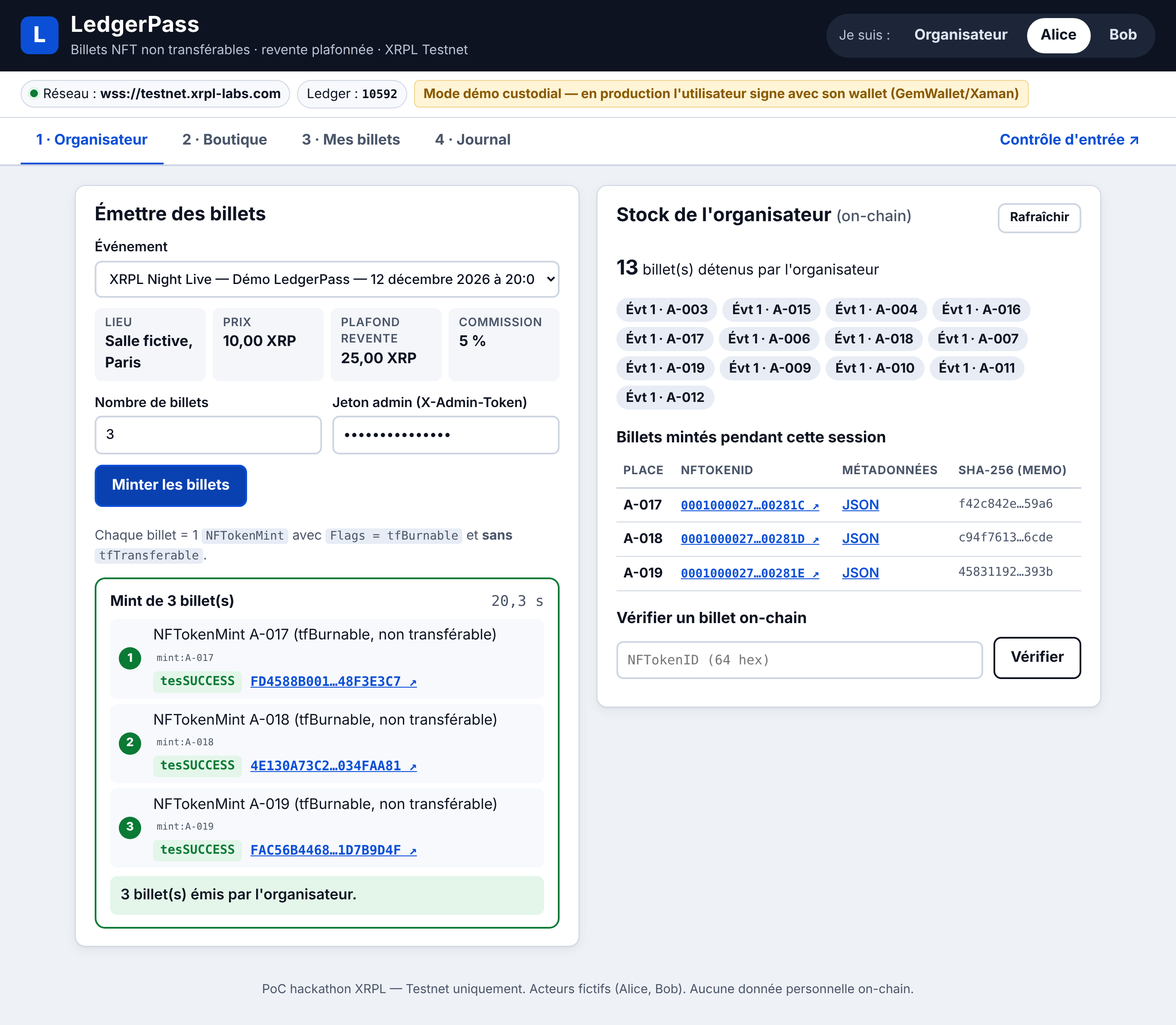
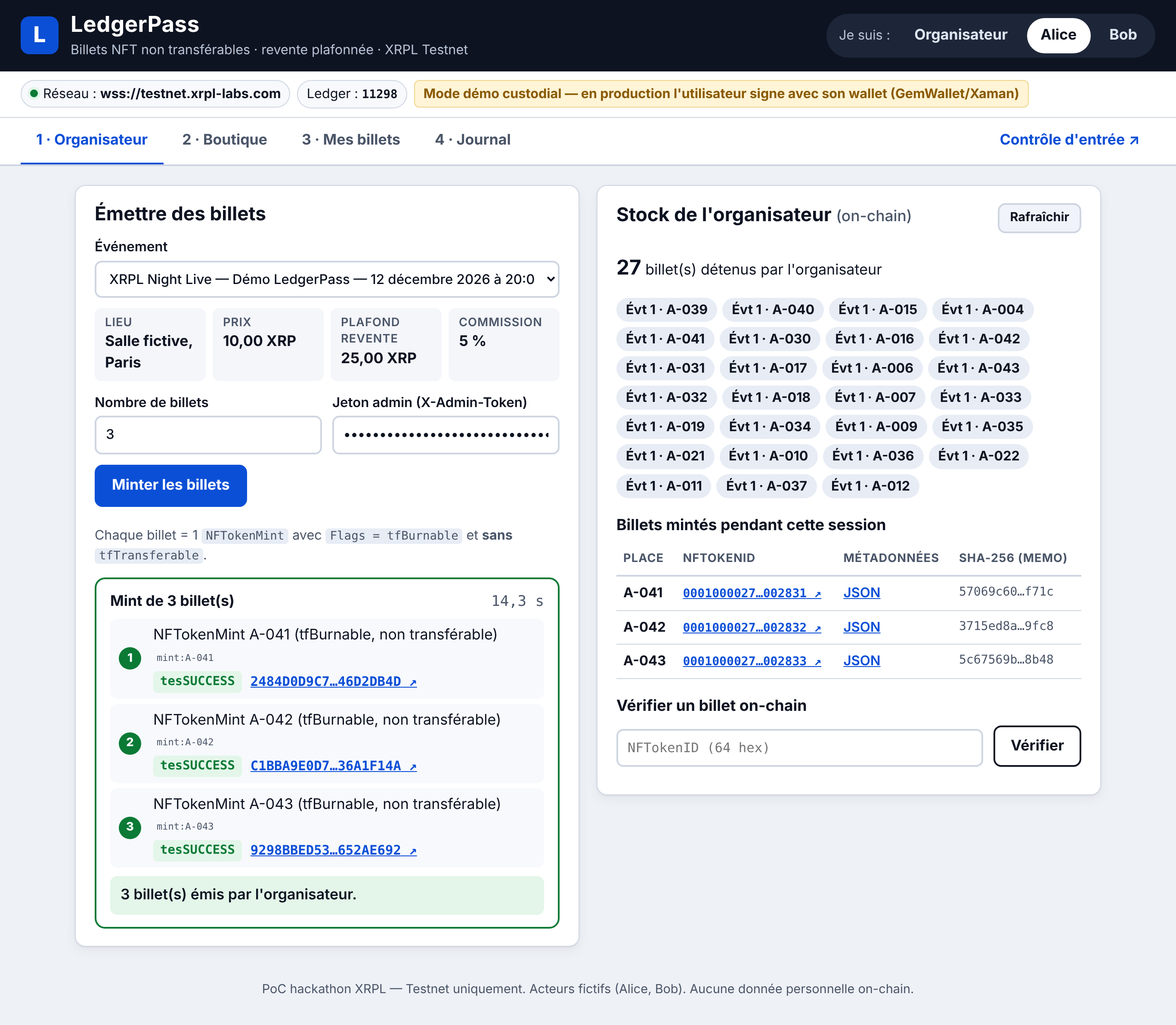
docs: README autonome, nouvelles captures et run e2e final
Claude-Session: https://claude.ai/code/session_01Mim6dzKs9tWbwbmNKG9b2e

diff --git a/README.md b/README.md
@@ -40,7 +40,7 @@ Hackathon XRPL — ING5 CReATE, novembre 2026. PoC **Testnet uniquement**.
 - **Finalité en 3 à 5 s** et frais de l'ordre de 0,00001 XRP : compatible avec une file d'entrée.
 - **Lecture publique** (`account_nfts`, [testnet.xrpl.org](https://testnet.xrpl.org)) : n'importe qui vérifie l'état d'un billet.
 
-Détail des briques retenues et des alternatives rejetées : [`docs/choix-xrpl.md`](docs/choix-xrpl.md).
+**Briques XRPL retenues** : NFT XLS-20 (`NFTokenMint` / `NFTokenCreateOffer` / `NFTokenAcceptOffer` / `NFTokenBurn`), offres avec `Destination`, Memos (preuve sha256 des métadonnées, trace du check-in), `account_nfts` pour relire l'état. **Écartées** : royalty native `TransferFee` (voir § 2), smart contracts / Hooks (inutiles : le protocole porte déjà la règle), `nft_info` (Clio uniquement, non garanti sur tous les nœuds).
 
 ## 2. Le modèle retenu : option B
 
@@ -53,7 +53,7 @@ Détail des briques retenues et des alternatives rejetées : [`docs/choix-xrpl.m
 | Prix > plafond | refusé par l'API (HTTP 400) avant toute transaction : comme l'org est le seul à pouvoir créer une offre, le plafond est applicable |
 | Contrôle d'entrée | `NFTokenBurn` signé par l'org avec `Owner = détenteur` + Memo `ledgerpass/checkin`. Accès accordé **uniquement** si le burn est `tesSUCCESS` ; un rescan est donc refusé |
 
-Pourquoi pas de royalty native (`TransferFee`) : elle exige `tfTransferable`, ce qui rouvrirait le marché noir, et elle se contourne par une vente à 0 XRP. Voir [`docs/choix-xrpl.md`](docs/choix-xrpl.md).
+Pourquoi pas de royalty native (`TransferFee`) : elle exige `tfTransferable`, ce qui rouvrirait le marché noir, et elle se contourne par une vente à 0 XRP. Le plafond, appliqué par le seul acteur capable de créer une offre (l'organisateur), est donc plus robuste qu'une royalty.
 
 ## 3. Architecture
 
@@ -64,7 +64,33 @@ Front web (Vite, aucune seed) ──HTTP /api──► API Node.js/Express (xrpl
                                          metadata/*.json, data/db.json (journal)             testnet.xrpl.org
 ```
 
-Le script e2e (`scripts/e2e-demo.js`) appelle **la même couche `server/src/services/`** que l'API. Détail complet (qui signe quoi, cycle de vie, robustesse) : [`docs/architecture.md`](docs/architecture.md). Contrat d'API figé : [`docs/api-contract.md`](docs/api-contract.md).
+Le script e2e (`scripts/e2e-demo.js`) appelle **la même couche `server/src/services/`** que l'API.
+
+**Qui signe quoi** (mode démo custodial : seul le backend signe, le front n'a aucune seed) :
+
+| Action | Transactions | Signataire |
+|---|---|---|
+| Mint | `NFTokenMint` (Flags 1, Taxon = événement, URI, Memo sha256) | org |
+| Vente primaire | `NFTokenCreateOffer` vente, `Destination` = acheteur → `NFTokenAcceptOffer` | org → acheteur |
+| Revente encadrée | offre d'achat org (`Owner` = vendeur) → accept vendeur → offre de vente org (`Destination` = acheteur) → accept acheteur | org, vendeur, org, acheteur |
+| Revente directe (preuve) | `NFTokenCreateOffer` par le détenteur → rejet `tefNFTOKEN_IS_NOT_TRANSFERABLE` | détenteur |
+| QR du billet | signature hors chaîne (`ledgerpass\|nftId\|holder\|ts`) avec la clé du détenteur, valable 60 s | détenteur |
+| Contrôle d'entrée | `NFTokenBurn` (`Owner` = détenteur) + Memo `ledgerpass/checkin` | org |
+
+**Routes de l'API** (`http://127.0.0.1:3000/api`, JSON ; erreur = `{ error, code, hash? }`) :
+
+| Route | Rôle |
+|---|---|
+| `GET /health` | nœud XRPL, ledger, adresses publiques ; répond immédiatement (`network: null`, `status: "connecting"` pendant une reconnexion) |
+| `GET /events`, `GET /balances`, `GET /tx` | catalogue, soldes, journal des transactions de la session |
+| `POST /admin/mint` (`X-Admin-Token`) | `{ eventId, count ≤ 10 }` → billets mintés + tx |
+| `POST /primary/buy` | `{ nftId, buyer }` → vente primaire (2 tx) |
+| `GET /wallets/:who/tickets` | billets détenus (relus via `account_nfts` ; la Boutique exclut ceux en cours d'opération et ceux « en suspens » après une revente interrompue) |
+| `GET /wallets/:who/tickets/:nftId/qr` | QR signé `{ nftId, holder, ts, pubKey, sig }` (404 si `who` ne détient pas le billet, 400 si `who = org`) |
+| `GET /tickets/:nftId` | statut relu on-chain (`owner`, `burned`, historique, `pendingResale` éventuel) ; 404 si inconnu |
+| `POST /resale` | `{ nftId, seller, buyer, priceXrp }` (1 ≤ prix ≤ plafond) → 4 tx ; en cas d'échec partiel : `stage`, `txs`, `currentOwner` relu on-chain |
+| `POST /resale/direct` | tentative de revente directe : sur un billet détenu, 409 `tefNFTOKEN_IS_NOT_TRANSFERABLE` (400 si la requête est invalide : `nftId`, acteurs, prix) |
+| `POST /gate/checkin` (`X-Gate-Token`) | contenu du QR signé + `eventId` (défaut 1) → `{ granted: true, tx }` ou 409 `{ granted: false, reason }` ; 504 `TX_UNKNOWN` + `hash` si la validation du burn n'a pas pu être constatée (réseau) |
 
 | On-chain (XRPL) | Off-chain (serveur) |
 |---|---|
@@ -82,7 +108,7 @@ Le statut d'un billet (propriétaire, brûlé ou non) n'est **jamais stocké** c
 - **Node.js ≥ 20** (testé avec Node 22) et npm
 - **Git**
 - Un accès réseau à au moins un nœud WebSocket du Testnet (voir [§ 6](#6-réseau-utilisé)) et au faucet `faucet.altnet.rippletest.net` (création des comptes uniquement)
-- Optionnel : un smartphone ou une webcam pour scanner les QR (sinon, saisie manuelle)
+- Optionnel : une webcam sur le poste de démo pour scanner les QR (sinon, saisie manuelle). **Le téléphone n'est pas supporté sans HTTPS** : depuis une IP du réseau local, le navigateur refuse la caméra (voir [§ 8](#8-lancement))
 
 ## 5. Installation
 
@@ -90,12 +116,13 @@ Le statut d'un billet (propriétaire, brûlé ou non) n'est **jamais stocké** c
 git clone https://github.com/ninoatns/LedgerPass.git
 cd LedgerPass
 npm ci                    # dépendances aux versions figées (package-lock.json)
-cp .env.example .env      # puis remplacez ADMIN_TOKEN et GATE_TOKEN par vos propres valeurs
-npm run setup             # crée et finance les 3 comptes Testnet, écrit leurs seeds dans .env
+cp .env.example .env      # (facultatif : npm run setup le crée s'il manque)
+npm run setup             # jetons aléatoires + 3 comptes Testnet financés, seeds écrites dans .env
 npm run check             # (optionnel) teste chaque nœud XRPL configuré
 ```
 
 `npm run setup` :
+- génère des `ADMIN_TOKEN` / `GATE_TOKEN` aléatoires (`crypto.randomBytes`) s'ils sont vides ou à une valeur d'exemple (`npm run setup -- --tokens-only` ne fait que cela) ; pour les saisir dans l'interface, ouvrez `.env` **hors projection** (écran non partagé, avant la soutenance) : n'affichez jamais `.env` sur l'écran projeté ;
 - génère les comptes `org`, `alice`, `bob` s'ils n'existent pas dans `.env`, et les finance via le faucet (≈ 100 XRP chacun) ;
 - réutilise les comptes existants (aucun appel faucet inutile) ;
 - n'affiche **jamais** les seeds : seules les adresses publiques sont imprimées et écrites dans [`docs/accounts.md`](docs/accounts.md).
@@ -109,16 +136,24 @@ Variables de `.env` :
 | `ADMIN_TOKEN` | jeton `X-Admin-Token` exigé pour minter (onglet Organisateur) |
 | `GATE_TOKEN` | jeton `X-Gate-Token` exigé pour le contrôle d'entrée (`scan.html`) |
 | `PORT` | port de l'API (3000 par défaut) |
+| `HOST` | interface d'écoute de l'API (`127.0.0.1` par défaut : non exposée sur le réseau local) |
+| `CORS_ORIGINS` | origines autorisées (défaut `http://localhost:5173,http://127.0.0.1:5173`) |
+| `PUBLIC_BASE_URL` | base des URI de métadonnées inscrites au mint : `https://raw.githubusercontent.com/ninoatns/LedgerPass/main` (dépôt public) ; vide → `http://localhost:3000` |
+
+Le serveur **refuse de démarrer** si un jeton est vide, vaut `change-me…` ou fait moins de 16 caractères.
+
+**Métadonnées.** `metadata/evt-1/A-001.json` … `A-060.json` sont pré-générées et committées : l'URI du NFT (`<PUBLIC_BASE_URL>/metadata/evt-1/A-0xx.json`, 84 octets ≤ 256) se résout publiquement sur GitHub une fois le dépôt poussé. L'API sert aussi `/metadata` en local pour le front. Au-delà du siège A-060, le fichier est généré dans `data/generated-metadata/` (non commité, avertissement dans les logs). L'intégrité ne dépend pas de l'hébergement : le sha256 du fichier est inscrit dans le Memo `ledgerpass/mint`.
 
 ## 6. Réseau utilisé
 
 - **XRPL Testnet** uniquement (aucune seed Mainnet, nulle part).
 - Nœuds, essayés dans l'ordre de `XRPL_WS_URLS` :
+  - `wss://testnet.xrpl-labs.com` (XRPL Labs, port 443 : passe les pare-feux ; en premier par défaut)
   - `wss://s.altnet.rippletest.net:51233` (nœud public Ripple ; le port 51233 est bloqué sur certains Wi-Fi, dont celui de l'école)
-  - `wss://testnet.xrpl-labs.com` (XRPL Labs, port 443 : passe les pare-feux)
   - `wss://testnet.honeycluster.io`
 - **Fallback automatique** : si un nœud ne répond pas dans le délai, on passe au suivant.
 - **Rejet des nœuds désynchronisés** : à la connexion, le client lit `server_info` et **refuse un nœud dont le dernier ledger validé a plus de 60 s**. C'est le cas observé de `testnet.honeycluster.io`, resté figé sur un ancien Testnet (dernier ledger validé il y a plus de 10 h) : sans ce contrôle, l'application aurait lu un état faux.
+- **Garde-fou Testnet** : un nœud dont `server_info.network_id` ≠ 1 est rejeté (s'il ne renvoie pas ce champ : simple avertissement dans les logs).
 - Le nœud réellement utilisé est affiché dans le bandeau de l'interface et par `GET /api/health`.
 - Derrière un proxy d'entreprise : définir `HTTPS_PROXY` (et `NODE_EXTRA_CA_CERTS` si besoin), le client passe alors par `https-proxy-agent`.
 
@@ -147,21 +182,25 @@ Adresses **publiques** des comptes de démo (seeds dans `.env`, jamais commitée
 Deux terminaux, à la racine du dépôt :
 
 ```bash
-npm run dev        # API  → http://localhost:3000/api   (ex. http://localhost:3000/api/health)
-npm run dev:web    # Front → http://localhost:5173       (Vite, proxifie /api et /metadata vers :3000)
+npm run dev        # API  → http://127.0.0.1:3000/api   (écoute locale uniquement ; ex. /api/health)
+npm run dev:web    # Front → http://localhost:5173       (Vite, proxifie /api et /metadata vers 127.0.0.1:3000)
 ```
 
 | URL | Usage |
 |---|---|
 | http://localhost:5173/ | billetterie : onglets **1 · Organisateur**, **2 · Boutique**, **3 · Mes billets**, **4 · Journal** ; sélecteur « Je suis : Organisateur / Alice / Bob » en haut à droite |
 | http://localhost:5173/scan.html | **contrôle d'entrée** : scan caméra du QR, ou saisie manuelle du JSON du QR |
-| http://localhost:3000/api/health | état du backend : nœud XRPL, ledger courant, adresses |
+| http://127.0.0.1:3000/api/health | état du backend : nœud XRPL, ledger courant, adresses |
 
 **Jetons.** L'onglet Organisateur demande le jeton admin (`ADMIN_TOKEN` de `.env`) ; `scan.html` demande le jeton de contrôle (`GATE_TOKEN`). Ils sont saisis dans des champs masqués et gardés en `sessionStorage` (effacés à la fermeture de l'onglet). Le front ne détient **aucune seed**.
 
-**Caméra.** Le navigateur n'autorise la caméra qu'en HTTPS ou sur `localhost`. Depuis un téléphone sur le réseau local, utilisez la saisie manuelle (ou un tunnel HTTPS).
+**Caméra et téléphone.** Le navigateur n'autorise la caméra qu'en HTTPS ou sur `localhost`. **Un téléphone n'est donc pas supporté** en l'état : `npm run dev:web -- --host` rend bien le front joignable depuis le réseau local, mais en HTTP sur une IP, la caméra y est refusée (il faudrait un certificat HTTPS, non fourni). Attention : `--host` expose aussi, via le proxy Vite, les routes non authentifiées de l'API au réseau local (voir [§ 12](#12-sécurité)) ; ne l'utilisez pas sur un Wi-Fi partagé. **Démo retenue** : sur le poste de démo, « Mes billets » → « Contenu du QR » → bouton **Copier**, puis collage dans `scan.html` (saisie manuelle) et validation **en moins de 60 s**.
 
-**Mode simulé.** `http://localhost:5173/?mock=1` rejoue l'interface sans backend ni Testnet (données marquées « DONNÉES SIMULÉES »). Il s'active aussi automatiquement si l'API est injoignable : le bandeau l'indique alors clairement. **Pour la vraie démo, vérifiez que le bandeau affiche le nœud `wss://…` et aucun badge « mock ».**
+**Mode simulé.** `http://localhost:5173/?mock=1` rejoue l'interface sans backend ni Testnet (données marquées « DONNÉES SIMULÉES »). Il ne s'active **que** par `?mock=1` : si l'API est injoignable, la billetterie et `scan.html` affichent un **écran d'erreur bloquant** (bouton « Réessayer »), jamais de données simulées à l'insu du public. Si XRPL est en reconnexion, le bandeau l'indique (« XRPL en reconnexion »). **Pour la vraie démo, vérifiez que le bandeau affiche le nœud `wss://…` et aucun badge « mock ».**
+
+**QR signé.** Dans « Mes billets », le QR contient `{ nftId, holder, ts, pubKey, sig }` : le backend signe `ledgerpass|nftId|holder|ts` avec la clé du détenteur (custodial). Le QR est régénéré toutes les 30 s (compte à rebours affiché ; en cas d'échec passager, l'ancien QR reste affiché tant qu'il est valable et un nouvel essai est fait 5 s plus tard) ; le contrôle vérifie la signature, que `pubKey` correspond bien au porteur, que le QR a moins de 60 s et qu'il n'est pas daté de plus de 5 s dans le futur. Une capture d'écran ne sert donc qu'une minute, et un QR inventé ou modifié est refusé.
+
+**Ne lancez pas `npm run e2e` pendant une démo dans l'interface** : le script utilise les mêmes comptes que le serveur (il affiche un avertissement s'il détecte l'API en cours).
 
 Build statique optionnel : `npm run build:web` (sortie dans `web/dist/`).
 
@@ -174,18 +213,22 @@ Durée réelle : ≈ 4 s par transaction, ≈ 2 min pour tout le scénario.
 | 1 | Onglet **1 · Organisateur** | Saisir le jeton admin, nombre = 3, **Minter les billets** | 3 × `NFTokenMint` `tesSUCCESS`, NFTokenID + sha256 des métadonnées, stock on-chain de l'org mis à jour |
 | 2 | « Je suis : **Alice** », onglet **2 · Boutique** | **Acheter en tant qu'Alice** sur un billet | 2 tx : offre de vente de l'org (`Destination` = Alice) puis acceptation par Alice ; 10 XRP payés |
 | 3 | Onglet **3 · Mes billets** (Alice) | **Tenter une revente directe (hors plateforme)** | Bandeau rouge **« Refusé par le protocole XRPL — `tefNFTOKEN_IS_NOT_TRANSFERABLE` »** (rejet avant ledger, aucun frais) |
-| 4 | Même carte | Prix **30**, **Revendre via LedgerPass** | Avertissement puis refus : « prix 30 XRP supérieur au plafond 25 XRP » (aucune transaction) |
-| 5 | Même carte | Prix **20**, acheteur Bob, **Revendre via LedgerPass** | 4 tx `tesSUCCESS` : rachat par l'org (19 XRP), acceptation d'Alice, offre de vente à Bob (20 XRP), acceptation de Bob. « Alice reçoit 19,00 XRP · commission organisateur 1,00 XRP » |
-| 6 | « Je suis : **Bob** », **Mes billets** | Afficher le QR ; « Contenu du QR » → **Copier** | QR = `{"nftId":"…","holder":"r…"}` |
-| 7 | **Contrôle d'entrée ↗** (`scan.html`) | Jeton de contrôle, scanner le QR (ou coller le JSON), **Valider l'entrée** | Écran vert **ACCÈS AUTORISÉ** + lien du `NFTokenBurn` |
+| 4 | Même carte | Prix **20**, acheteur Bob, **Revendre via LedgerPass** | 4 tx `tesSUCCESS` : rachat par l'org (19 XRP), acceptation d'Alice, offre de vente à Bob (20 XRP), acceptation de Bob. « Alice reçoit 19,00 XRP · commission organisateur 1,00 XRP » |
+| 5 | « Je suis : **Bob** », **Mes billets** | Sur le billet racheté : prix **30**, acheteur Alice, **Revendre via LedgerPass** | Avertissement puis refus : « prix 30 XRP supérieur au plafond 25 XRP » (HTTP 400, aucune transaction ; Bob garde le billet) |
+| 6 | Même carte (Bob) | Le QR signé s'affiche (compte à rebours « valable encore … s ») ; « Contenu du QR » → **Copier** | QR signé = `{"nftId":"…","holder":"r…","ts":…,"pubKey":"…","sig":"…"}` |
+| 7 | **Contrôle d'entrée ↗** (`scan.html`, même poste) | Jeton de contrôle, **coller** le JSON copié dans la saisie manuelle, **Valider l'entrée** — **moins de 60 s** après la copie | Écran vert **ACCÈS AUTORISÉ** + lien du `NFTokenBurn` (QR expiré, daté dans le futur, forgé, non signé, porteur = organisateur ou billet d'un autre événement : **REFUSÉ** avec le motif ; réseau coupé pendant le burn : écran orange **STATUT INCONNU** avec le hash à vérifier) |
 | 8 | Même page | **Billet suivant**, revalider le même QR | Écran rouge **REFUSÉ — billet déjà utilisé (brûlé)** |
 | 9 | Onglet **4 · Journal** | Lire les soldes et le journal | Variation des soldes (org +11 : 10 de vente primaire + 1 de commission ; Alice +9 ; Bob −20) et tous les hash cliquables vers testnet.xrpl.org |
 
 Captures de ce scénario exécuté sur le Testnet : [`docs/screenshots/`](docs/screenshots/).
 
-| Mint | Revente encadrée | Journal et soldes | Contrôle d'entrée |
-|---|---|---|---|
-| ![](docs/screenshots/01-organisateur-mint.png) | ![](docs/screenshots/03-revente-plateforme.png) | ![](docs/screenshots/04-journal-soldes.png) | ![](docs/screenshots/05-scan-acces-autorise.png) |
+| Mint | Revente directe refusée | Revente encadrée |
+|---|---|---|
+| ![Mint de 3 billets](docs/screenshots/01-organisateur-mint.png) | ![Revente directe refusée par le protocole](docs/screenshots/02-revente-directe-refusee.png) | ![Revente encadrée à 20 XRP](docs/screenshots/03-revente-plateforme.png) |
+
+| QR signé de Bob | Contrôle d'entrée | Journal et soldes |
+|---|---|---|
+| ![QR signé avec compte à rebours](docs/screenshots/06-qr-signe.png) | ![Accès autorisé](docs/screenshots/05-scan-acces-autorise.png) | ![Journal et soldes](docs/screenshots/04-journal-soldes.png) |
 
 **Plan B (sans navigateur).** Le même scénario, en ligne de commande, avec pause avant chaque étape (à lancer dans un vrai terminal) :
 
@@ -194,7 +237,7 @@ npm run e2e -- --step     # Entrée pour lancer chaque étape
 npm run e2e               # tout d'un coup
 ```
 
-Chaque exécution écrit les hash et liens explorer dans [`demo/last-run.md`](demo/last-run.md) : ce fichier sert aussi de preuve si le réseau tombe pendant la soutenance. Si un compte manque de XRP, le script le recharge automatiquement au faucet.
+Chaque exécution écrit les hash, liens explorer, le NFTokenID et le siège du billet suivi dans [`demo/last-run.md`](demo/last-run.md) : ce fichier et les captures ci-dessus servent de preuve si le réseau tombe pendant la soutenance (liens vers des transactions déjà confirmées sur testnet.xrpl.org). Si un compte manque de XRP, le script le recharge automatiquement au faucet.
 
 ## 10. Recréer les comptes après un reset du Testnet
 
@@ -211,25 +254,38 @@ npm run e2e                 # vérifie que tout refonctionne et régénère demo
 ## 11. Tests
 
 ```bash
-npm test          # 13 tests unitaires (node:test), sans réseau : conversions XRP/drops, partage commission et plafond, Memos/URI/flags, extraction offerId/NFTokenID des métadonnées de tx
-npm run e2e       # test d'intégration réel sur le Testnet : 8 étapes, assertions sur les résultats et les soldes, code de sortie ≠ 0 en cas d'échec
+npm test          # 23 tests unitaires (node:test), sans réseau : XRP/drops, commission et plafond, Memos/URI/flags, offerId/NFTokenID, QR signé (valide, expiré, daté dans le futur, forgé, mauvais porteur, non signé), jetons (temps constant, jetons faibles), attente de validation bornée (TX_UNKNOWN)
+npm run e2e       # test d'intégration réel sur le Testnet : 9 étapes, assertions sur les résultats et les soldes, code de sortie ≠ 0 en cas d'échec
 ```
 
-Le scénario complet a aussi été joué dans le navigateur (Playwright) contre le vrai backend et le Testnet : mint ×3, achat, revente directe refusée (`tefNFTOKEN_IS_NOT_TRANSFERABLE`), revente au-dessus du plafond refusée, revente encadrée à 20 XRP, accès autorisé puis rescan refusé, billet relu « brûlé » on-chain.
+Le scénario complet a aussi été joué dans le navigateur (Playwright) contre le vrai backend et le Testnet, dans le même ordre que l'e2e : mint ×3, achat par Alice, revente directe refusée (`tefNFTOKEN_IS_NOT_TRANSFERABLE`), revente encadrée à 20 XRP, tentative de Bob à 30 XRP refusée (plafond), QR signé de Bob copié puis collé dans `scan.html` → accès autorisé, rescan refusé, journal et soldes. L'e2e vérifie aussi les refus du contrôle d'entrée sans transaction : QR non signé, expiré, daté dans le futur, forgé, signé par un autre que le porteur, mauvais détenteur, porteur = organisateur (billet invendu), billet d'un autre événement.
 
 ## 12. Sécurité
 
 - **Testnet uniquement.** Aucune seed Mainnet, nulle part.
 - **Secrets hors Git.** Les seeds et jetons sont dans `.env` (permissions 600, listé dans `.gitignore`) ; `.env.example` ne contient aucune valeur sensible. Les scripts n'affichent jamais une seed, seulement des adresses publiques.
 - **Mode démo custodial, assumé.** Le backend détient les seeds Testnet de `org`, `alice` et `bob` et signe pour eux, pour une démo fiable en 5 minutes. Le front n'a aucune seed ; le bandeau de l'interface le rappelle en permanence. En production, chaque acheteur signe lui-même son `NFTokenAcceptOffer` avec son wallet (Xaman, GemWallet) et seul l'organisateur garde une clé serveur.
-- **Routes sensibles protégées** : mint par `X-Admin-Token`, contrôle d'entrée par `X-Gate-Token`.
+- **Routes sensibles protégées** : mint par `X-Admin-Token`, contrôle d'entrée par `X-Gate-Token` ; jetons aléatoires générés par `npm run setup`, comparés à temps constant (`crypto.timingSafeEqual`) ; le serveur refuse de démarrer avec un jeton vide ou d'exemple.
+- **Exposition réseau minimale** : API sur `127.0.0.1` uniquement (`HOST`), CORS limité au front Vite (`CORS_ORIGINS`).
+- **Routes de vente et de QR non authentifiées (custodial)** : `POST /primary/buy`, `POST /resale`, `POST /resale/direct` et `GET /wallets/:who/tickets/:nftId/qr` signent pour Alice ou Bob **sans authentification** ; elles ne sont protégées que par l'écoute locale (`127.0.0.1`). Quiconque atteint l'API peut donc acheter, revendre ou obtenir un QR valide au nom d'un acteur de démo. Ne jamais exposer l'API (ni le front lancé avec `--host`, qui la proxifie) sur un réseau partagé. **En cible**, ces signatures viennent du wallet de l'utilisateur (Xaman, GemWallet) et ces routes disparaissent : le serveur ne garde que les actions de l'organisateur.
+- **Contrôle d'entrée non falsifiable par le QR** : QR signé par le détenteur, valable 60 s, refusé s'il est daté de plus de 5 s dans le futur, `pubKey` → adresse = porteur ; refus si le porteur est l'organisateur (billet invendu) ou si le billet n'est pas de l'événement contrôlé ; l'accès n'est accordé que si le `NFTokenBurn` est `tesSUCCESS`.
+- **Une opération à la fois par billet** : verrou partagé (vente, revente, contrôle), libéré dans tous les cas (succès, refus, erreur) ; un billet en cours d'opération n'apparaît pas dans la Boutique.
+- **Attente de validation bornée** : au-delà de ≈ 90 s sans pouvoir constater la validation (coupure réseau), la transaction est déclarée `TX_UNKNOWN` avec son hash ; le contrôle d'entrée affiche alors **« statut inconnu — vérifiez le hash »** (écran orange), jamais « ACCÈS AUTORISÉ » ni « REFUSÉ » à tort.
 - **Aucune donnée personnelle on-chain** : acteurs fictifs, métadonnées sans nom ; seul un sha256 des métadonnées est inscrit dans le Memo.
 
-Détail (modèle de clés, cible production, risques) : [`docs/securite.md`](docs/securite.md).
+**Cible production** : chaque utilisateur signe ses `NFTokenAcceptOffer` et son QR avec son propre wallet ; l'organisateur garde une seule clé serveur (idéalement un compte `NFTokenMinter` dédié, séparé du compte qui encaisse).
 
 ## 13. Limites
 
-Les principales : revente en deux étapes non atomiques, custodial en démo, pouvoir de burn de l'organisateur, plafond appliqué par l'organisateur, QR statique (copie d'écran), contrôle d'entrée en ligne, métadonnées hors chaîne. Chacune avec sa conséquence, sa justification et sa parade : [`docs/limites.md`](docs/limites.md).
+- **Revente non atomique** (4 tx) : en cas d'échec au milieu, le billet peut rester chez l'organisateur avec le vendeur déjà payé. L'API relit alors le détenteur on-chain et renvoie l'étape, les tx passées et le détenteur actuel. Le billet est marqué **« en suspens »** dans `data/db.json` (`tickets[<nftId>].pendingResale` : étape, vendeur, acheteur, prix, hash) : il **n'est plus proposé dans la Boutique** et la vente primaire le refuse (409 `PENDING_RESALE`), pour ne pas le revendre une seconde fois. La reprise est manuelle (rembourser le vendeur ou relancer la vente à l'acheteur, puis retirer `pendingResale` du fichier) et tracée dans le Journal.
+- **Routes custodiales non authentifiées** : vente, revente et QR signent pour Alice/Bob sans authentification, protégés seulement par l'écoute locale (voir [§ 12](#12-sécurité)) ; en cible, ces signatures viennent du wallet de l'utilisateur et ces routes disparaissent.
+- **Pas de téléphone en démo** : sans HTTPS, la caméra est refusée hors `localhost` ; le QR est copié puis collé dans `scan.html` sur le même poste.
+- **Custodial en démo** : le backend détient les seeds de tous les acteurs et signe pour eux (y compris le QR) ; en production, chaque utilisateur signe avec son wallet.
+- **Pouvoir de l'organisateur** : il peut brûler tout billet `tfBurnable` et fixe seul le plafond ; c'est le tiers de confiance assumé du modèle (actions visibles on-chain).
+- **QR** : signé et valable 60 s, mais une capture partagée dans la minute reste utilisable une fois (le premier scan brûle le billet).
+- **Contrôle d'entrée en ligne** : il faut joindre le Testnet pour brûler le billet (≈ 4 s par entrée).
+- **Métadonnées hors chaîne** (GitHub / serveur) : seul leur sha256 est on-chain ; 60 fichiers pré-générés.
+- **Verrous en mémoire** d'un seul processus API ; ne pas lancer l'e2e en même temps que la démo (mêmes comptes).
 
 ## 14. Structure du dépôt
 
@@ -238,7 +294,8 @@ LedgerPass/
 ├── server/src/
 │   ├── index.js, config.js, store.js   API Express, configuration (.env), stockage off-chain data/db.json
 │   ├── xrpl/                           client (fallback + rejet nœud désynchronisé), soumission tx, wallets, faucet, Memos, montants
-│   ├── services/                       logique métier partagée API + e2e : mint, offers (vente primaire), resale, gate, query
+│   ├── security.js                     QR signé (signature/vérification), jetons (temps constant, jetons faibles)
+│   ├── services/                       logique métier partagée API + e2e : mint, offers (vente primaire), resale, gate, query, locks
 │   └── routes/                         routes HTTP du contrat d'API
 ├── scripts/
 │   ├── setup-accounts.js               npm run setup   — création/financement des comptes
@@ -246,12 +303,11 @@ LedgerPass/
 │   ├── e2e-demo.js                     npm run e2e     — scénario complet (test + plan B)
 │   └── cleanup-offers.js               npm run cleanup — annulation des offres orphelines
 ├── web/                                front Vite : index.html (billetterie), scan.html (contrôle d'entrée), src/
-├── metadata/evt-<id>/*.json            métadonnées des billets (servies sur /metadata)
+├── metadata/evt-1/A-001…A-060.json     métadonnées pré-générées (URI publique GitHub + servies sur /metadata)
 ├── data/db.sample.json                 base initiale (catalogue) ; db.json est local, non commité
 ├── test/                               tests unitaires (npm test)
 ├── demo/last-run.md                    hash de la dernière exécution e2e
-└── docs/                               architecture, choix XRPL, contrat d'API, sécurité, limites, comptes,
-                                        captures, slides (LedgerPass_Soutenance.pptx), fiches oral
+└── docs/                               accounts.md (adresses publiques), screenshots/ (captures du scénario)
 ```
 
 ## 15. Équipe

diff --git a/demo/last-run.md b/demo/last-run.md
@@ -1,25 +1,34 @@
 # Dernière exécution du scénario e2e
 
-- Date : 2026-11-26T11:11:04.507Z
+- Date : 2026-11-26T11:45:50.757Z
 - Réseau : `wss://testnet.xrpl-labs.com`
 - Comptes : org `rhbNH2oD69dnQ6jebAmqkuTezt1YNa5qwu`, alice `rpcVkpNjwZ5UXpPnwtJufvDoe7cjrVUy3p`, bob `rGtCFKQrUnHa1XjjqM7oo98mdmc7CMZKQj`
 - Statut : **SUCCÈS**
[1 lines of base64/hex data omitted]
 
 | Étape | Transaction | Hash | Résultat | Lien |
 |---|---|---|---|---|
[20 lines of base64/hex data omitted]
 | 5 plafond | - | - | refusé (HTTP 400) : prix 30 XRP supérieur au plafond 25 XRP | - |
[1 lines of base64/hex data omitted]
-| 7 rescan | - | - | refusé : billet déjà utilisé (brûlé) | - |
-| 8 revente billet brûlé | - | - | refusé : bob ne détient pas ce billet (absent de account_nfts : brûlé ou déjà revendu) | - |
+| 6 refus | - | - | QR non signé : QR non signé : régénérez le QR depuis « Mes billets » | - |
+| 6 refus | - | - | QR expiré : QR expiré (120 s, validité 60 s) : le porteur doit afficher le QR à jour | - |
+| 6 refus | - | - | QR daté dans le futur (+60 s) : QR daté dans le futur (+60 s, tolérance 5 s) : horloge incohérente ou QR forgé | - |
+| 6 refus | - | - | QR forgé (ts modifié) : QR forgé : signature invalide | - |
+| 6 refus | - | - | QR au nom de bob signé par alice : QR forgé : la clé publique ne correspond pas au porteur | - |
+| 6 refus | - | - | mauvais détenteur (alice) : le porteur ne détient pas ce billet (mauvais détenteur ou billet inexistant) | - |
+| 6 refus | - | - | porteur = org (billet invendu) : porteur = organisateur : billet invendu, il ne donne pas accès | - |
+| 6 refus | - | - | autre événement contrôlé : billet de l'événement 1, contrôle de l'événement 2 | - |
[1 lines of base64/hex data omitted]
+| 8 rescan | - | - | refusé : billet déjà utilisé (brûlé) | - |
+| 9 revente billet brûlé | - | - | refusé : bob ne détient pas ce billet (absent de account_nfts : brûlé ou déjà revendu) | - |
 
 _tef*/tem* : transaction rejetée avant inclusion dans un ledger (aucun frais, hash introuvable sur l'explorer)._
